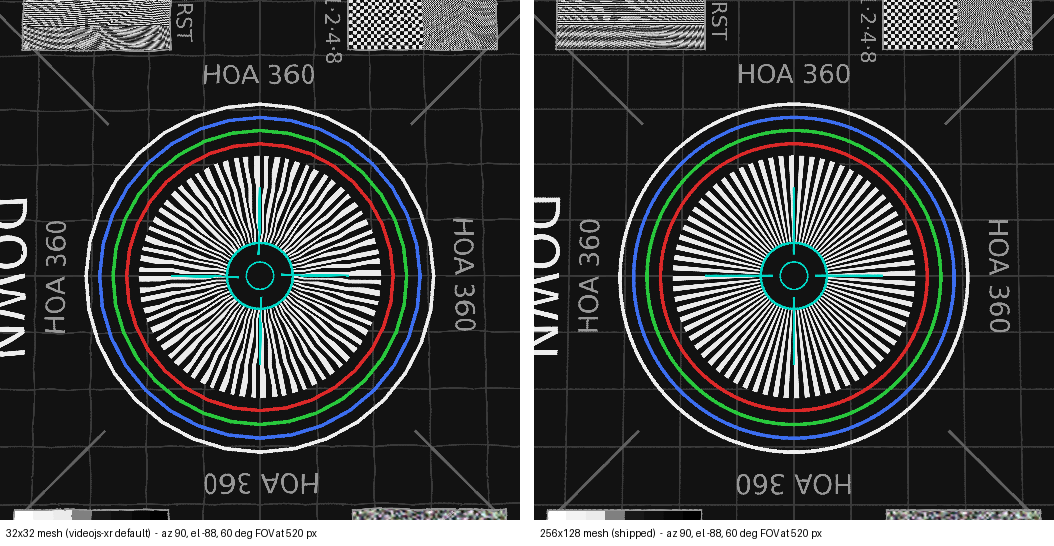
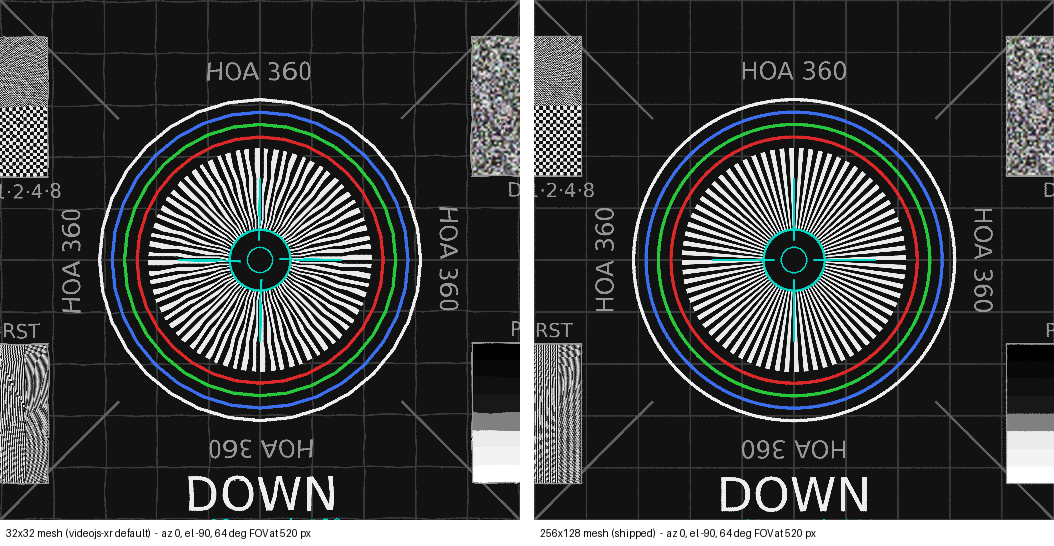
regenerate the tessellation figure at the true nadir, DOWN label intact
Three parameter changes, each with a reason rather than a preference:

--el -90 instead of -88. The figure is about pole behaviour, so it should
actually be at the pole; -88 was only ever there to dodge the degenerate
camera basis that the previous commit removed. Exact -90 is now safe:
camera_rays' closed-form basis is well defined there, and the one genuinely
degenerate path (the collapsed pole-row quads) already falls back to the
exact UV via ray_tri_uv returning None.

--az 0 instead of 90. At the exact nadir, azimuth is purely roll. 0 is the
value that lands the DOWN face's top edge (which points FRONT) at screen
top, so the card renders upright and unmirrored with its name at bottom
centre, which is where a reader looks for it. The previous --az 90 put the
name up the left edge, a leftover from working around the roll bug rather
than a choice.

--fov 64 instead of 60. Measured, not eyeballed: the wordmark is drawn at
face-local t = 0.566, a cube face spans 90 deg, so it sits at atan(0.566)
= 29.5 deg off-axis with glyphs reaching 31.2 deg, while a 60 deg FOV puts
the frame edge at exactly 30.0 deg. That cut the bottom third off the word.
64 clears it for 6 percent less magnification on the subject.

Docstring now records all three with the arithmetic, so the next person to
touch the figure does not rediscover the 30.0-vs-31.2 collision by eye.

diff --git a/scripts/render-sphere-distortion.py b/scripts/render-sphere-distortion.py
@@ -37,19 +37,34 @@ are what the figure shows. Generate one first:
 The committed figure, docs/images/sphere-tessellation-before-after.png, is:
 
   scripts/render-sphere-distortion.py /tmp/testcard-8k.png \
-      --az 90 --el -88 --fov 60 --size 520 --out-dir docs/images
+      --az 0 --el -90 --fov 64 --size 520 --out-dir docs/images
 
-It looks near the nadir on purpose. The angular error there is only about 1.3x
-the equator's, but the quads degenerate to slivers and every meridian
-converges, so the same magnitude reads far louder: it is the honest worst case,
-not the typical one, and the caption on any page using it should say so. FOV is
-wide enough to keep the surrounding test-card panel in frame rather than
-filling the crop with an isolated crosshair; the bowing is still visible in the
-full-resolution PNG at native size, in the spokes nearest the crosshair.
---az 90 rather than 0: purely which edge label (DOWN) lands fully in frame and
-right-way-up versus clipped by the crop at this FOV, not a property of the
-distortion being shown - any azimuth is an equally valid worst-case example at
-a fixed near-polar elevation.
+It looks straight down the nadir on purpose. The angular error there is only
+about 1.3x the equator's, but the quads degenerate to slivers and every
+meridian converges, so the same magnitude reads far louder: it is the honest
+worst case, not the typical one, and the caption on any page using it should
+say so. The bowing is still visible in the full-resolution PNG at native size,
+in the spokes nearest the crosshair.
+
+All three camera parameters are load-bearing, and two of them look arbitrary
+until you know why, so:
+
+  --el -90  the exact nadir, not a couple of degrees short of it. Only safe
+            because camera_rays builds its basis in closed form: the previous
+            cross-product-with-a-near-pole-fallback version jumped by exactly
+            90 deg just short of the pole and was degenerate at it.
+  --az 0    at the exact nadir, azimuth IS roll - there is nothing else left for
+            it to mean. 0 is the value that puts the DOWN face's own top edge
+            (which points FRONT, see make-360-testcard.py's geometry note) at
+            screen top, so the card renders upright and unmirrored with its
+            name at bottom centre. Any other azimuth rolls the same picture.
+  --fov 64  the DOWN wordmark is drawn at face-local t = 0.566, and a cube face
+            spans 90 deg, so it sits atan(0.566) = 29.5 deg off-axis with its
+            glyphs reaching 31.2 deg. A 60 deg FOV puts the frame edge at
+            exactly 30.0 deg and slices the bottom third off the word; 64
+            clears it. Still wide enough to keep the surrounding test-card
+            panel in frame rather than filling the crop with an isolated
+            crosshair, which is why it was never narrow to begin with.
 
 Usage:
   scripts/render-sphere-distortion.py SOURCE.png --out-dir docs/images
